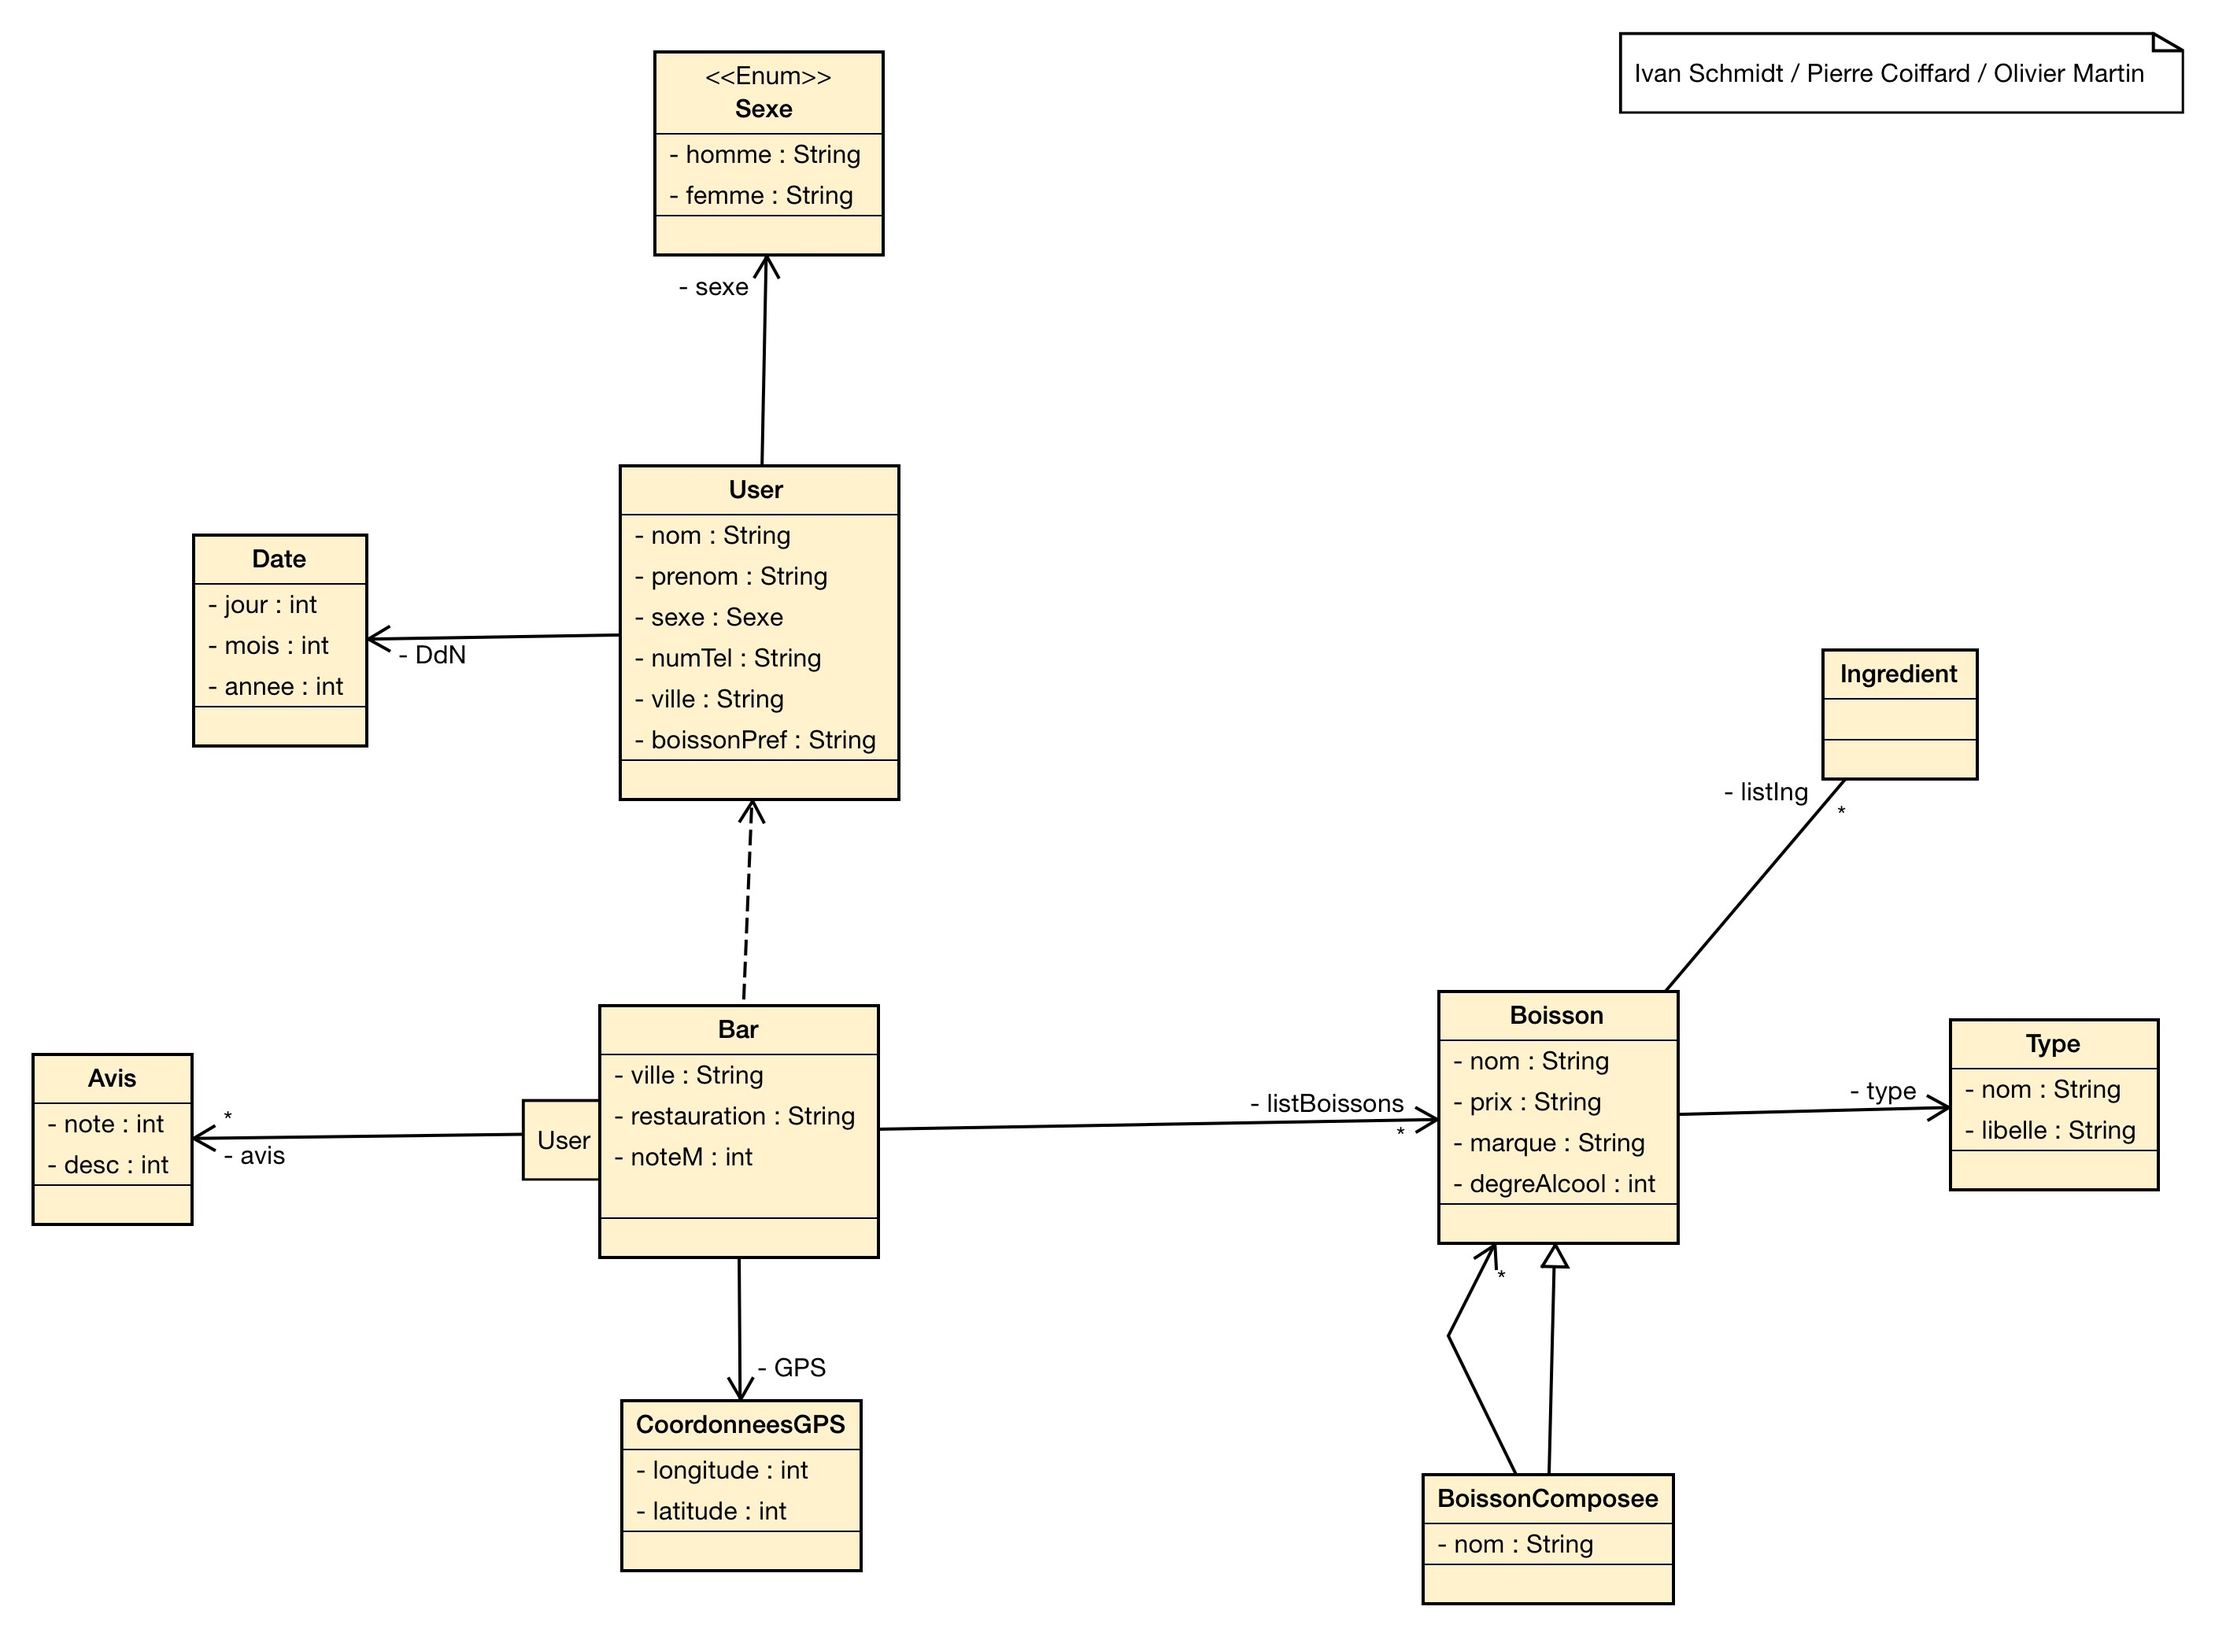
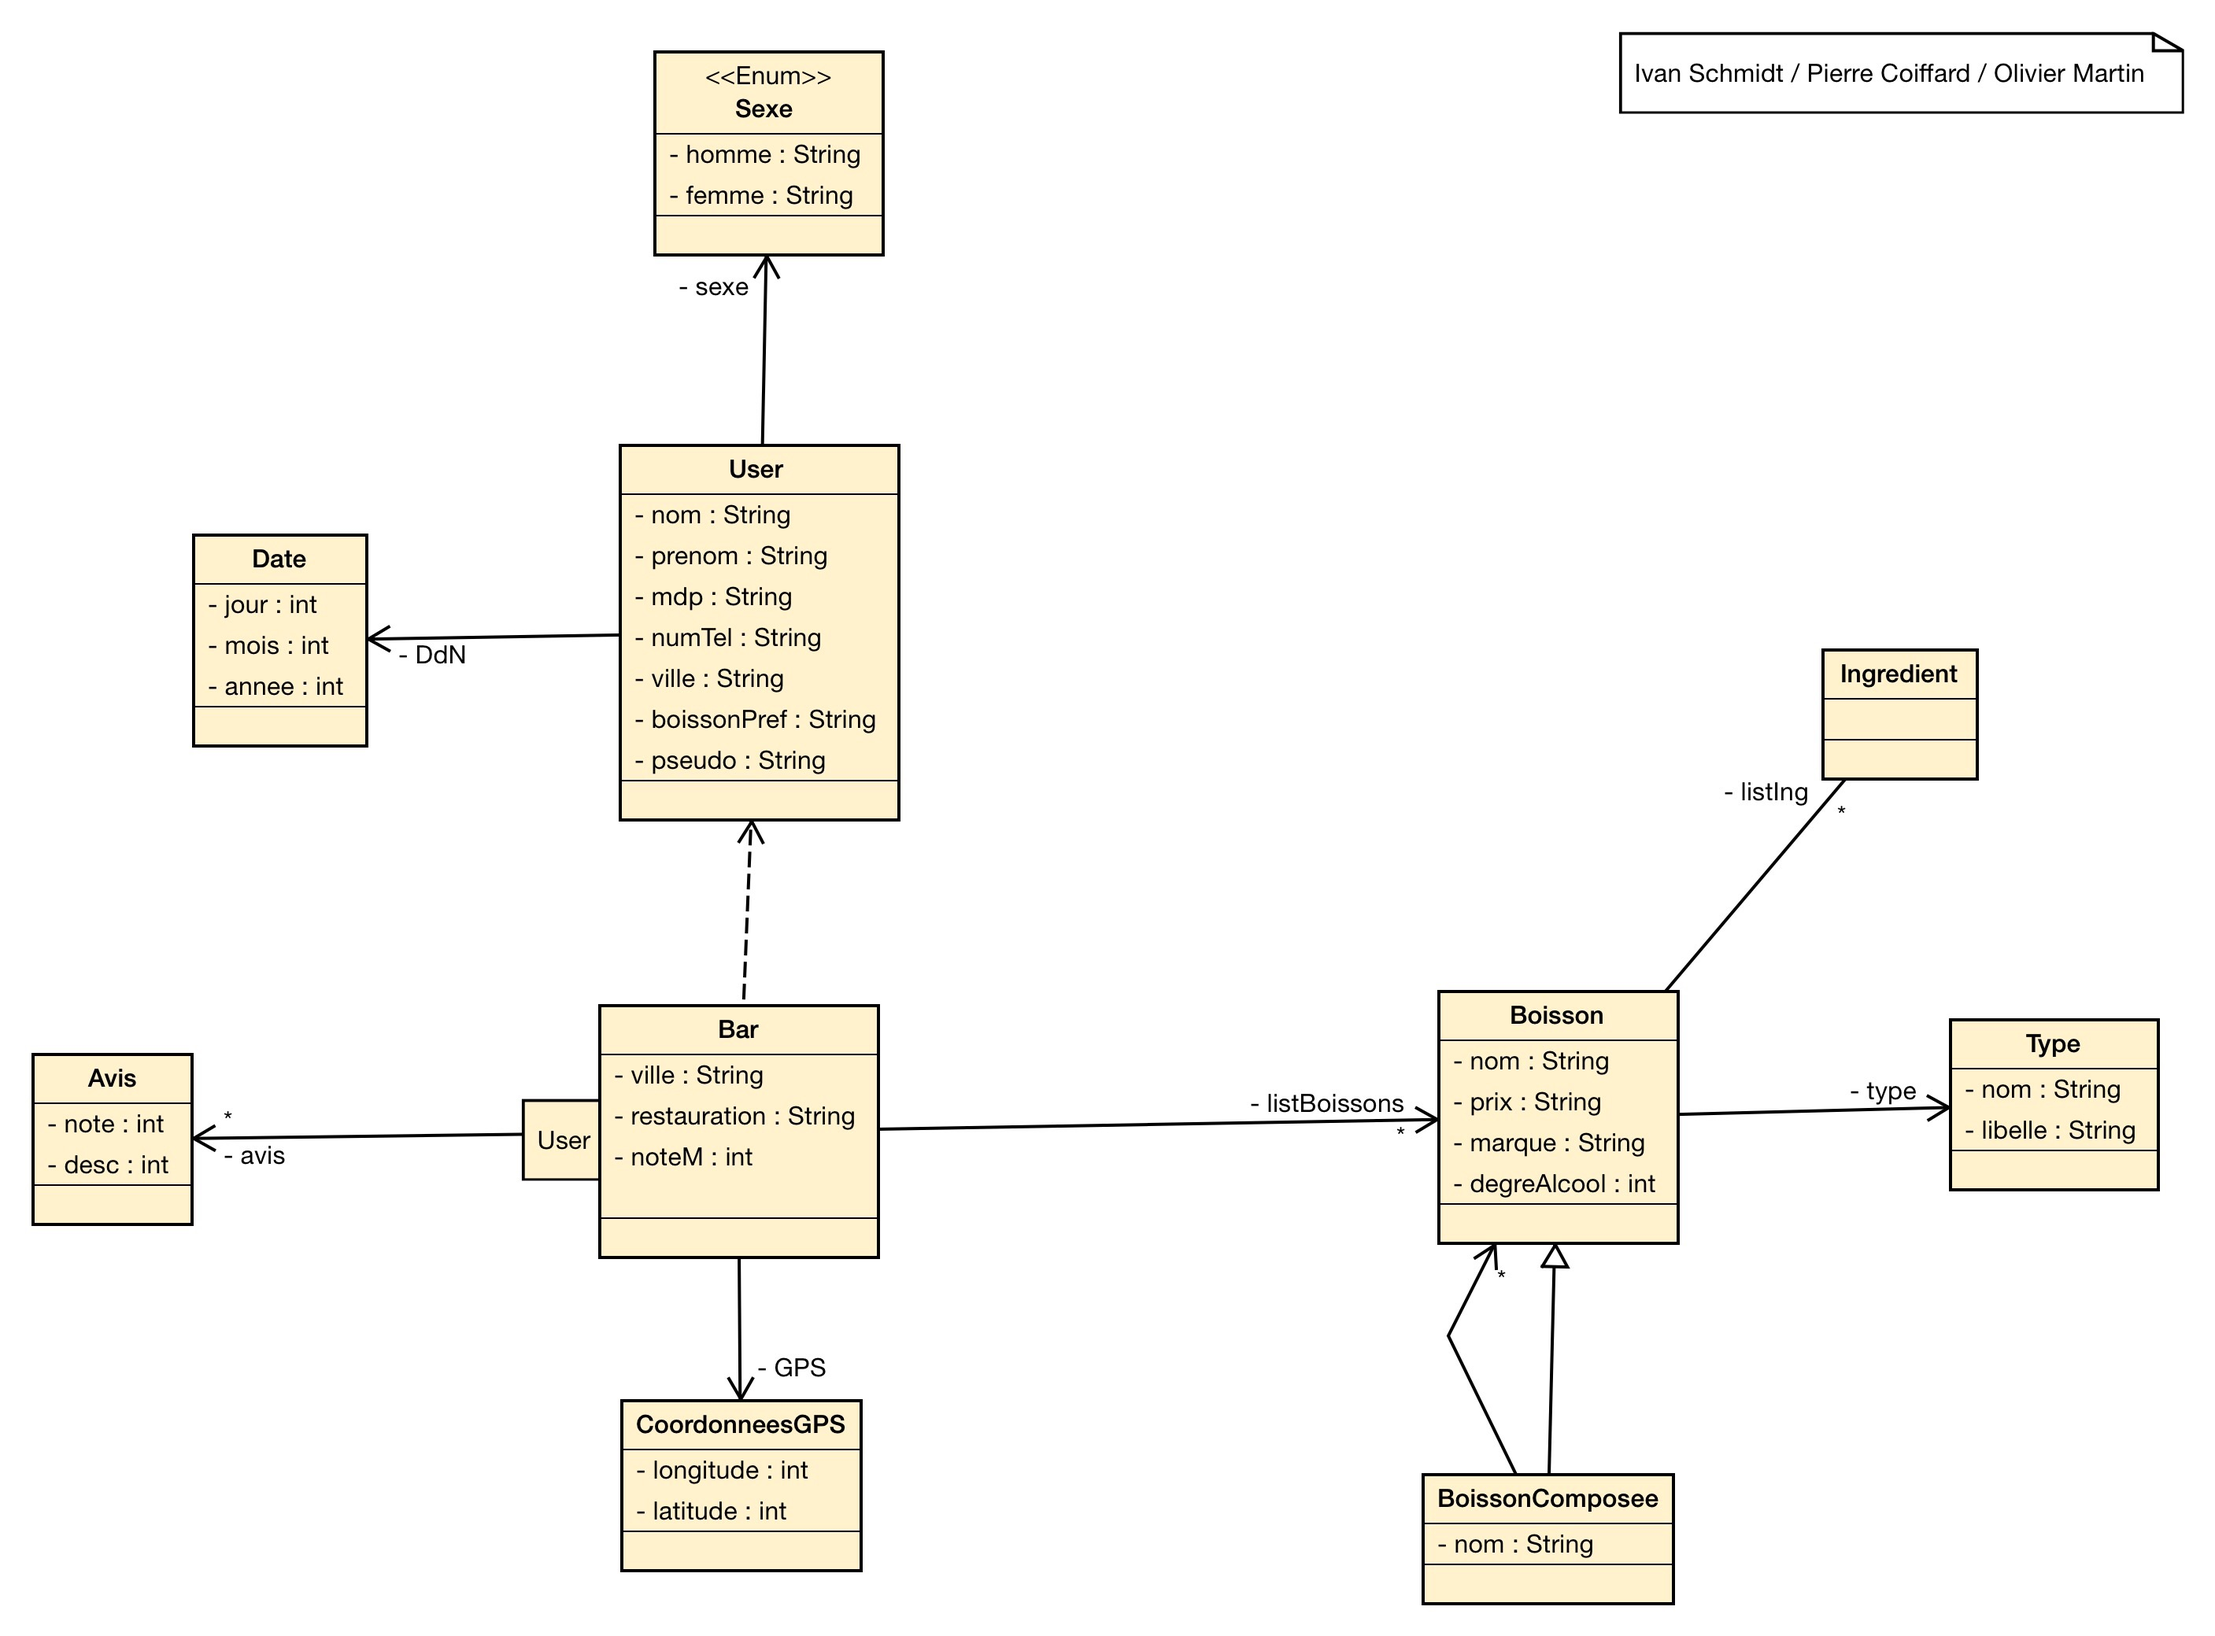
new version classDiagram.jpg + prop User.cs

Changed region(s): [[0.2783, 0.2463, 0.4019, 0.5233]]

diff --git a/SearchBars/MetierSearchBars/User.cs b/SearchBars/MetierSearchBars/User.cs
@@ -8,14 +8,15 @@ namespace MetierSearchBars
 {
     class User
     {
-        private string mPseudo;
-        private string mNom;
-        private string mPrenom;
-        private Sexe mSexe;
-        private string mNumTel;
-        private string mVille;
-        private string mBoissonPref;
-        private Date mDateDeNaissance;
+        public string Pseudo { get; set; }
+        public string Mdp { get; set; }
+        public string Nom { get; set; }
+        public string Prenom { get; set; }
+        public Sexe Sexe { get; set; }
+        public Date DdN { get; set; }
+        public string NumTel { get; set; }
+        public string Ville { get; set; }
+        public string BoissonPref { get; set; }
 
         public User()
         {
